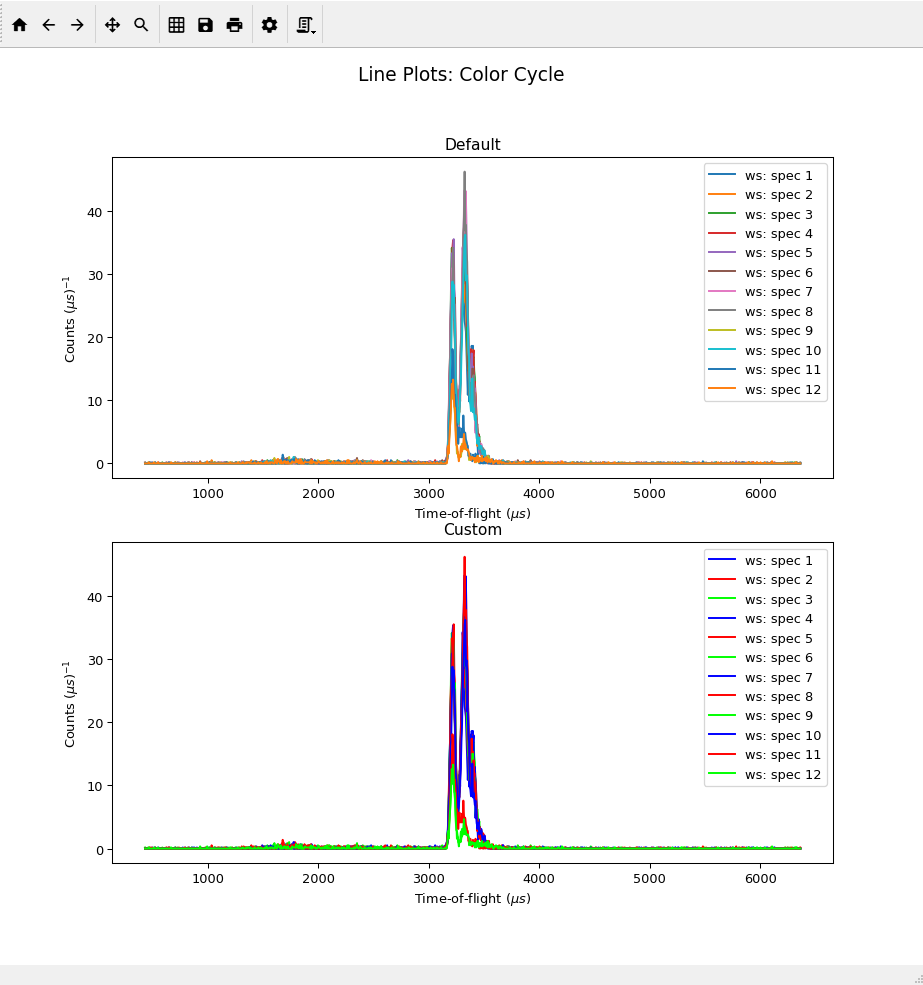
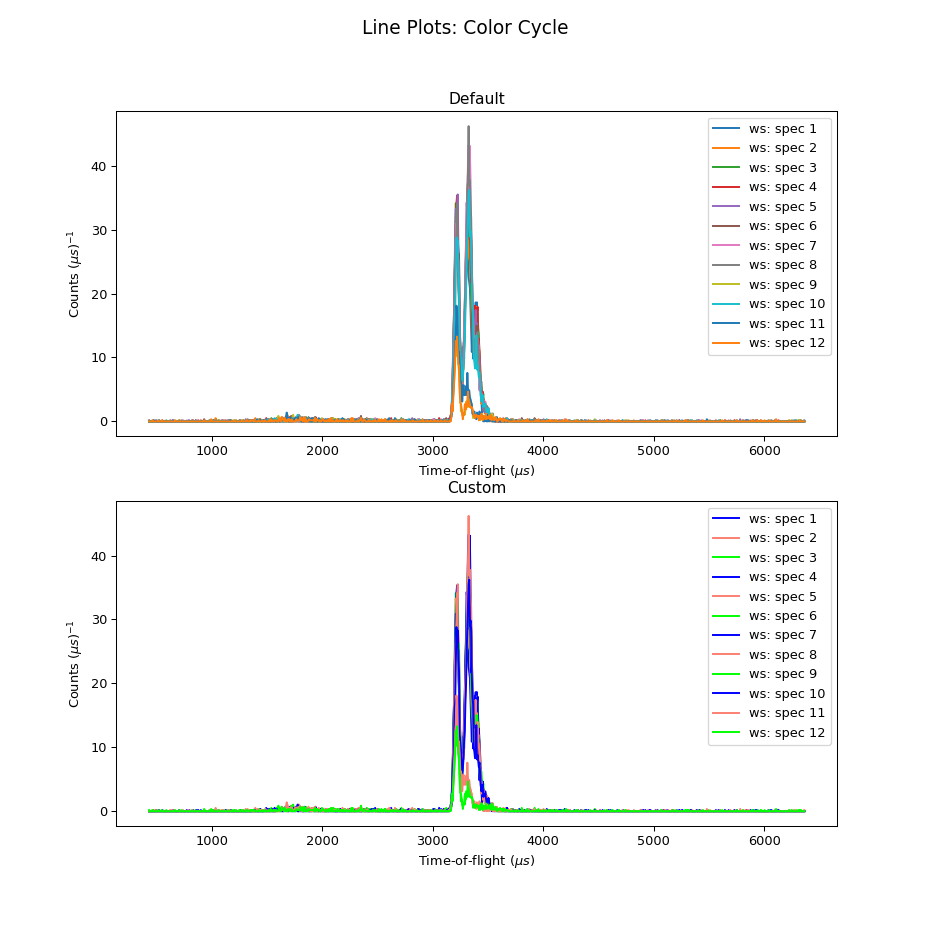
Some Changes, not fixed Plot

diff --git a/docs/source/plotting/index.rst b/docs/source/plotting/index.rst
@@ -410,8 +410,8 @@ Custom Colors
 Custom Color Cycle (Line / 1D plots)
 ####################################
 
-The Default Color Cycle doesn't have to be used. Here is an example where a Custom Color Cycle is chosen. Make sure to fill the list `custom_colors` with the HTML codes for the desired colours. 
-These can be found `online <https://www.rapidtables.com/web/color/html-color-codes.html>`_ or using Mantid Workbench: On Workbench, plot a Spectrum and navigate to Figure Options(Gear Icon) > Curves > Line > Color (RGBA). Click on the nearby colorbox and use the 'Select Color' pop-up to chose your colors and their associated HTML codes. `Further Details <https://matplotlib.org/3.1.1/gallery/color/color_cycle_default.html>`_
+The Default Color Cycle doesn't have to be used. Here is an example where a Custom Color Cycle is chosen. Make sure to fill the list `custom_colors` with either the HTML codes or recognised names for the desired colours. 
+Both can be found `online <https://www.rapidtables.com/web/color/html-color-codes.html>`_.
 
 .. code-block:: python
 
@@ -427,7 +427,7 @@ These can be found `online <https://www.rapidtables.com/web/color/html-color-cod
    colors = prop_cycle.by_key()['color'] # 10 colors in default cycle
 
    '''Change the following two parameters as you wish'''
-   custom_colors = ['#0000ffff', '#ff0000ff','#00ff00ff'] # I've chosen Blue, Red, Green
+   custom_colors = ['#0000ffff', 'salmon','#00ff00ff'] # I've chosen Blue, Salmon, Green
    
    fig = plt.figure(figsize = (10,10))
    ax1 = plt.subplot(211,projection='mantid')
@@ -466,7 +466,7 @@ In MantidPlot, a Custom Colormap (256 entries of Red, Green and Blue values [0-2
    g = np.zeros(256)
    b = np.zeros(256)
    for i in range(256):
-   '''Control how the RGB values change throughout the Colormap'''
+      '''Control how the RGB values change throughout the Colormap'''
       r[i] = i          #linear increase in Red
       g[i] = 255 - i    #linear decrease in Green
 
@@ -474,9 +474,9 @@ In MantidPlot, a Custom Colormap (256 entries of Red, Green and Blue values [0-2
    for i in range(256):
       f.write(str(int(r[i])))
       f.write(' ')
-      f.write(str(int(b[i])))
-      f.write(' ')
       f.write(str(int(g[i])))
+      f.write(' ')
+      f.write(str(int(b[i])))
       f.write('\n')
    f.close()
 
